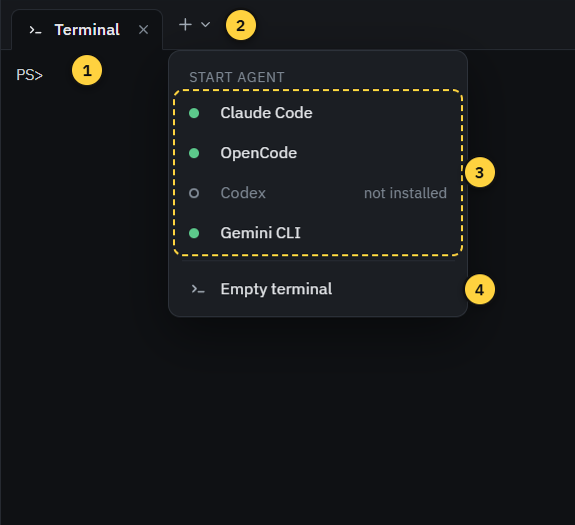
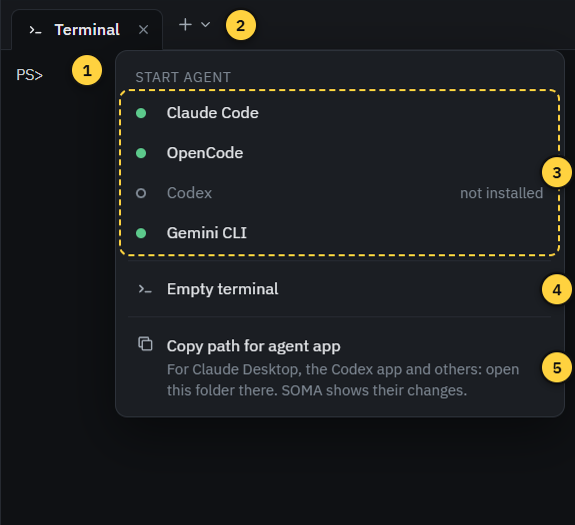
Doku: Ordner-Modus und Agenten-Apps in Anleitung, Skill, Vorlage und Changelog
Abschnitt „Your own folder“ und Punkt „Copy path for agent app“ in
soma-app.md mit neuem Bild, Agenten-Apps im Skill shell-environment,
soma render in der Vorlage ohne „nur in den Terminals der App“.

diff --git a/app/README.md b/app/README.md
@@ -76,7 +76,7 @@ SOMA_TEST_EXE="$LOCALAPPDATA/soma-dev/release/win-unpacked/SOMA.exe" node test/s
 
 | Pfad | Inhalt |
 |---|---|
-| `src/main/` | Hauptprozess: `projects.ts` (offenes Projekt, Speichern, Öffnen, Verlauf, Wiederherstellen), `git.ts` (mitgeliefertes Git über dugite), `zip.ts` (Modelldatei .soma oder ZIP schreiben und sicher entpacken), `workspace.ts` (UUID-Arbeitsordner, Projektzustand doppelt, Projekt-Check nur melden), `build.ts` (Build als Einmal-Prozess mit Entprellung, Warteschlange, Zeitlimit, ein vorgewärmter Python-Prozess für alle Aufträge der App, gilt der letzte Build noch), `previews.ts` (Build als Vorschau eines Commits ablegen, STEP-Dateien des Projekts für den Viewer umwandeln, Cache nach Inhalt), `measure.ts` (langlebiger Python-Messdienst, `soma serve`), `skills.ts` (Bibliothek aus mitgelieferten und eigenen Skills, Stufen der Skills: Kopie nach `.soma/skills/`, bei Bedarf mit Hinweis, zwei Listen in `AGENTS.md`, Sicherung abweichender Kopien, Prüfung eines Skill-Texts), `help.ts` (Text und Bilder der Anleitung, Bilder nach `.soma/help/` im Projekt, E83), `skilllibrary.ts` (eigene Skills in den App-Daten für die Einstellungen: anlegen, speichern, zurücksetzen, löschen, importieren, mit Sicherung, E78), `settings.ts` (Einstellungen der App in `settings.json`, Kaputtes gemeldet und vor dem Ersetzen gesichert, E81), `log.ts` (Protokoll `logs/soma.log` in den App-Daten: `console.*` des Hauptprozesses und Fehler des Renderers, gescheiterte IPC-Anfragen, Builds, gestartete Agenten mit Version, ungefangene Ausnahmen; Rotation bei 2 MB, 3 alte Dateien), `storage.ts` (Größe der App-Daten je Bereich, Vorschau-Cache leeren, E81), `about.ts` (Versionen, Komponenten mit Lizenz, Python-Pakete aus den Metadaten, Text für Fehlermeldungen, E81), `updates.ts` (neueste Version unter GitHub Releases über `net.fetch`, einmal je Sitzung, abschaltbar, E98), `params.ts` (Werte des Nutzers in `parameters.json` lesen, prüfen und schreiben, E74), `dialogs.ts` (native Dialoge, im Test beantwortbar), `watcher.ts`, `terminals.ts` (node-pty, Projektumgebung, `soma` und `git` im PATH, `PIP_PYTHON`), `packages.ts` (Projektumgebung `.soma/env` anlegen lassen, fehlende Pakete aus `requirements.txt` installieren, E67), `files.ts` (Pfadschutz, Dateien nach `inputs/`, Markierungen nach `.soma/feedback/`, Schreiben aus dem Editor mit Konfliktprüfung und Sicherung), `dxf.ts` (DXF für die Ansicht über `soma dxfview`, nur bei geänderter Datei, E80), `agents.ts`, dazu für E58 `bridge.ts` (Verbindung für `soma render`: HTTP auf 127.0.0.1 mit Schlüssel, Adresse und Schlüssel auch in `bridge.json` der App-Daten für Agenten mit fremder Umgebung), `render.ts` (unsichtbares Render-Fenster, Aufträge nacheinander), `animations.ts` (Liste der Animationen und Ergebnisse, Bauen im Hintergrund) |
+| `src/main/` | Hauptprozess: `projects.ts` (offenes Projekt, Speichern, Öffnen, Verlauf, Wiederherstellen), `git.ts` (mitgeliefertes Git über dugite), `zip.ts` (Modelldatei .soma oder ZIP schreiben und sicher entpacken), `workspace.ts` (UUID-Arbeitsordner, Projektzustand doppelt, Projekt-Check nur melden, geöffnete Ordner in `folders.json`), `folders.ts` (Ordner-Modus „Open folder“: was angelegt und geändert wird, Abschnitt in `AGENTS.md`, Verweis in `CLAUDE.md`, mit Sicherung, E103), `build.ts` (Build als Einmal-Prozess mit Entprellung, Warteschlange, Zeitlimit, ein vorgewärmter Python-Prozess für alle Aufträge der App, gilt der letzte Build noch), `previews.ts` (Build als Vorschau eines Commits ablegen, STEP-Dateien des Projekts für den Viewer umwandeln, Cache nach Inhalt), `measure.ts` (langlebiger Python-Messdienst, `soma serve`), `skills.ts` (Bibliothek aus mitgelieferten und eigenen Skills, Stufen der Skills: Kopie nach `.soma/skills/`, bei Bedarf mit Hinweis, zwei Listen in `AGENTS.md`, Sicherung abweichender Kopien, Prüfung eines Skill-Texts), `help.ts` (Text und Bilder der Anleitung, Bilder nach `.soma/help/` im Projekt, E83), `skilllibrary.ts` (eigene Skills in den App-Daten für die Einstellungen: anlegen, speichern, zurücksetzen, löschen, importieren, mit Sicherung, E78), `settings.ts` (Einstellungen der App in `settings.json`, Kaputtes gemeldet und vor dem Ersetzen gesichert, E81), `log.ts` (Protokoll `logs/soma.log` in den App-Daten: `console.*` des Hauptprozesses und Fehler des Renderers, gescheiterte IPC-Anfragen, Builds, gestartete Agenten mit Version, ungefangene Ausnahmen; Rotation bei 2 MB, 3 alte Dateien), `storage.ts` (Größe der App-Daten je Bereich, Vorschau-Cache leeren, E81), `about.ts` (Versionen, Komponenten mit Lizenz, Python-Pakete aus den Metadaten, Text für Fehlermeldungen, E81), `updates.ts` (neueste Version unter GitHub Releases über `net.fetch`, einmal je Sitzung, abschaltbar, E98), `params.ts` (Werte des Nutzers in `parameters.json` lesen, prüfen und schreiben, E74), `dialogs.ts` (native Dialoge, im Test beantwortbar), `watcher.ts`, `terminals.ts` (node-pty, Projektumgebung, `soma` und `git` im PATH, `PIP_PYTHON`), `packages.ts` (Projektumgebung `.soma/env` anlegen lassen, fehlende Pakete aus `requirements.txt` installieren, E67), `files.ts` (Pfadschutz, Dateien nach `inputs/`, Markierungen nach `.soma/feedback/`, Schreiben aus dem Editor mit Konfliktprüfung und Sicherung), `dxf.ts` (DXF für die Ansicht über `soma dxfview`, nur bei geänderter Datei, E80), `agents.ts`, dazu für E58 `bridge.ts` (Verbindung für `soma render`: HTTP auf 127.0.0.1 mit Schlüssel, Adresse und Schlüssel auch in `bridge.json` der App-Daten für Agenten mit fremder Umgebung), `render.ts` (unsichtbares Render-Fenster, Aufträge nacheinander), `animations.ts` (Liste der Animationen und Ergebnisse, Bauen im Hintergrund) |
 | `src/preload/` | Schmale, feste Schnittstelle zum Renderer (kein Node-Zugriff dort), `render-preload.ts` für das Render-Fenster |
 | `src/renderer/` | Oberfläche: `main.ts` (Verdrahtung: Kopfzeile mit Spalten-Schaltern, Seitenleiste und Code-Spalte, Reiter Analysis und Animation mit Punkt für Neues, Werkzeuge neben dem Strukturbaum, Menüs, Auswahl, Export, Übergabe an den Agenten auch per Ziehen ins Terminal, Startseite), `viewer.ts` (three.js, Klick auf Code, Ansichten, Drehpunkt, Mausbelegungen und orthografische Kamera (E81), Schnittebene mit gefüllter Schnittfläche und Kontur, verschobene Bauteile der Explosion mit Wegen, Strahltest der Demontage-Analyse mit BVH aus `three-mesh-bvh`, Vorschaubild, Bild für die Markierung), `viewcube.ts` (Ansichtswürfel in 3D), `sectiontool.ts` (Schnitt: Karte, Ebene, Text für den Agenten), `explodetool.ts` (Explosion: Demontage-Analyse mit Baugruppen und schrägen Richtungen, Elternteile, Lage, Abspielen Schritt für Schritt, Karte, Texte für den Agenten), `busy.ts` (Ladeanzeige über dem Viewer mit Fortschritt und Abbrechen, für die Analyse der Explosion), `skills.ts` (Skills in der Seitenleiste: Zeilen mit Stufen-Schalter, Karte daneben mit Einstellungen), `help.ts` (Hilfe über der App: Abschnitte der Anleitung, E83), `tutorial.ts` (geführte Tour, E94: Karte mit Schritt, Titel und Text, oranger Rahmen um das Element, Abdunklung aus vier Flächen, Klicks gehen durch, ohne Element Karte in der Mitte; die zehn Schritte am Modell „Tutorial“), `settings.ts` (Einstellungen über der App mit Reitern, Reiter „Skills“ mit Liste, Markdown-Editor, Vorschau und Prüfung beim Tippen, E78), `settingspages.ts` (Reiter Viewer, Shortcuts, Storage und About, E81), `params.ts` (Parameter in der Seitenleiste: Felder nach Art, Gruppen, Zurücksetzen auf den Wert aus dem Code, E74), `markup.ts` (Zeichenfläche der Markierung, Formen als bearbeitbare Objekte), `measuretool.ts` (Messen: Ablauf, Karte, Text für den Agenten), `tree.ts` (Strukturbaum oben links im Viewer, E82: ohne Hintergrund, Baumstriche, Gruppen, Auge und Transparenz vor dem Namen, Referenzen als Gruppe am Ende, Suche, F3, Mehrfachauswahl, Ziehen über die Augen), `shortcuts.ts` (Liste aller Tasten für den Reiter Shortcuts der Einstellungen), `code.ts` (Code-Spalte mit Editor: CodeMirror 6, Speichern auf Wunsch, Abgleich mit Änderungen des Agenten, Konflikte, Umschalter für Markdown), `dxfview.ts` (DXF-Ansicht im Code-Panel: Pfade auf einer Canvas, Zoom, Layer, Mark up view, E80), `drawings.ts` (Dokument „Drawings“, E97: alle Blätter aus `.soma/drawings/index.json` als ein PDF in der Code-Spalte, Kopf je Blatt, Treffer auf Ansichten und Maße über die Blatt-mm des Index, Karte zur Auswahl), `drawlink.ts` (Zeichnung und 3D: Kamera in Blickrichtung, Schnittebene ins Schnittwerkzeug, Maß als Punkte, Strecke und Maßzahl), `markdown.ts` (Markdown als Dokument: Tokens von `marked` direkt als DOM, ohne `innerHTML`), `filetree.ts` (Dateibaum in der Seitenleiste, offene Datei hervorgehoben), `versions.ts` (Verlaufsleiste), `fileview.ts` (STEP-Datei aus dem Projekt im Viewer: Banner, Neuladen bei Änderung, schließt sich mit der Versionsvorschau aus), `terminals.ts` (xterm.js, Tabs, Einklappen, Einfügen), `ui.ts` (Menüs, Meldungen, Helfer), `icons.ts` (Symbole), `style.css` (Farben mit fester Bedeutung, siehe Kopf der Datei) |
 | `src/renderer/` (E58) | `animdata.ts` (Animation aus der glTF-Datei auswerten), `animtool.ts` (Abspielleiste unten im Bild), `animpanel.ts` (Reiter Animation: Liste mit Videos, Schritte, E82), `overlay.ts` (Untertitel, Beschriftungen, Legende auf einer 2D-Fläche, im Viewer wie im Video), `resultview.ts` und `resulttool.ts` (Ergebnisse farbig, Legende, Leiste und Beschriftungen im Bild), `analysispanel.ts` (Reiter Analysis: Liste und Bericht, E82), `videoview.ts` (Video-Player mit Standbild markieren), `render.html` und `render.ts` (unsichtbares Render-Fenster: Bild, Übersicht, MP4 mit WebCodecs und mediabunny) |
@@ -86,7 +86,7 @@ SOMA_TEST_EXE="$LOCALAPPDATA/soma-dev/release/win-unpacked/SOMA.exe" node test/s
 | `resources/help/` | Bilder der Anleitung (E83) mit nummerierten Markierungen, erzeugt mit `npm run help:shots` (`test/helpshots.mjs`, Ausschnitte und Nummern in `test/helpshots-spec.mjs`). Der Text ist der Skill `resources/skills/soma-app.md`, die Liste unter jedem Bild nennt dieselben Bezeichnungen wie die Markierungen (`npm run test:unit` prüft das) |
 | `resources/icon.*` | App-Icon (E44) für Fenster und Taskleiste: `icon.svg` als Vorlage, `icon.ico` (16 bis 256 px) und `icon.png`. Neu erzeugen mit `python scripts/make-icon.py` (braucht Edge und Pillow, kleine Größen bekommen einen dickeren Strich) |
 | `../python/soma/` | Hilfsbibliothek und Kommandozeile (`soma build`, `soma export`, `soma glb` für Vorschauen, `soma serve` Messdienst, `soma warm` vorgewärmter Prozess der App, `soma env` und `env.py` Projektumgebung und `requirements.txt` (E67), `measure.py` exakte Werte mit OCC, `fasteners.py` Normteile mit Tabellen aus bd_warehouse in `data/fasteners/`, `cqcompat.py` Kompatibilitätsmodus für CadQuery-Skripte ohne `add_part` (E100), `cqexport.py` mit `soma cadquery export|import` und `cqruntime.py` als Block exportierter Skripte (Apache 2.0, E101), `anim.py` und `animrun.py` Animationen mit `soma anim`, `analysis.py` Auswertungen mit `soma analyze`, `fem.py` Festigkeit mit `soma analyze fem` (gmsh, Kontakt, Schrauben mit Vorspannung, eigener Solver mit pyamg als Rückfall), `ccx.py` CalculiX als Rechenwerk (E84), `render.py` Auftrag an die App für `soma render`, `drawing.py` und `drawrun.py` technische Zeichnungen mit `soma drawing` (E76: HLR aus OCP, DXF mit ezdxf, PDF und PNG über matplotlib, Prüfung), `dxfview.py` DXF für die Ansicht der App mit `soma dxfview` (E80, Zeichenmodul von ezdxf), `gltf.py` GLB-Schreiber, `progress.py` Fortschritt langer Befehle) |
-| `test/` | `smoke.mjs`, `versions.mjs`, `editor.mjs`, `measure.mjs`, `stepview.mjs`, `cadquery.mjs`, `groups.mjs`, `section.mjs`, `explode.mjs`, `skills.mjs`, `params.mjs`, `tutorial.mjs`, `updates.mjs`, `fasteners.mjs`, `drawing.mjs`, `drawview.mjs`, `dxf.mjs`, `animation.mjs` (Ende-zu-Ende), `unit.mjs` (ohne Electron), `buildlock.mjs` (Sperre von `soma build`, nur Python), `harness.mjs` (App starten und steuern), `cdp.mjs` (kleiner DevTools-Client, puppeteer scheitert an Electron 44) |
+| `test/` | `smoke.mjs`, `versions.mjs`, `editor.mjs`, `measure.mjs`, `stepview.mjs`, `cadquery.mjs`, `folder.mjs` (Ordner-Modus), `groups.mjs`, `section.mjs`, `explode.mjs`, `skills.mjs`, `params.mjs`, `tutorial.mjs`, `updates.mjs`, `fasteners.mjs`, `drawing.mjs`, `drawview.mjs`, `dxf.mjs`, `animation.mjs` (Ende-zu-Ende), `unit.mjs` (ohne Electron), `buildlock.mjs` (Sperre von `soma build`, nur Python), `harness.mjs` (App starten und steuern), `cdp.mjs` (kleiner DevTools-Client, puppeteer scheitert an Electron 44) |
 
 ## Noch nicht enthalten
 

diff --git a/app/resources/skills/soma-app.md b/app/resources/skills/soma-app.md
@@ -45,7 +45,7 @@ The logo at the top left opens the start page.
 
 ![The start page](../help/start.png)
 
-1. **New model**: starts from a small example (a box with a lid) and opens a terminal in the model folder (Ctrl N). The arrow next to it also offers **From CadQuery script**, which starts from an existing CadQuery script instead (see "CadQuery scripts").
+1. **New model**: starts from a small example (a box with a lid) and opens a terminal in the model folder (Ctrl N). The arrow next to it also offers **From CadQuery script**, which starts from an existing CadQuery script instead (see "CadQuery scripts"), and **Open folder**, which uses SOMA in a folder of yours (see "Your own folder").
 2. **Open**: opens a .soma or ZIP file (Ctrl O).
 3. **Tutorial**: a short guided tour of the app with an example model. No agent needed. The cross hides the card.
 4. **Recent**: models you worked on, the newest first. The field above filters them by name. "Open" marks the model that is open right now, "never saved" one that was never saved as a .soma file. The bin on a card removes the model from this computer, a saved .soma file stays.
@@ -74,6 +74,8 @@ disappears like any new model you did not change.
 2. **New tab**: opens the menu below.
 3. **Start agent**: starts one of the agents found on this computer.
 4. **Empty terminal**: a plain command line, for example for `soma build`.
+5. **Copy path for agent app**: copies the model folder. Open it in an agent app such as Claude Desktop or the Codex
+   app, and SOMA shows its changes like those of an agent in a tab.
 
 Type your wishes into the agent and press Enter. Everything with **Send to agent** (a part, a measurement, an error,
 a drawing) puts a short note into the agent's input. Add your own words, then press Enter. You can also drag a file
@@ -200,6 +202,25 @@ SOMA works with plain CadQuery scripts in both directions.
   and the values of the Parameters panel come back. Leave the block unchanged, otherwise SOMA keeps it as it is.
 
 The block and the standard parts are under the Apache License 2.0, so the exported script is yours like any model.
+
+## Your own folder
+
+**Open folder** (model menu, or the arrow next to New model) uses SOMA in a folder of yours, for example a Git repository.
+The folder itself is the model: there is no .soma file to save, and your files stay where they are.
+
+- **Entry point:** `model.py` if there is one. Otherwise SOMA asks which script builds the model (plain CadQuery with
+  `show_object` or `result` works too), or creates `model.py` from the template.
+- **Before anything changes**, SOMA lists what it creates and what it changes, with Cancel. It creates `.soma/` (app
+  data, cache and skills, with its own `.gitignore` for the intermediate results) and `output/`. It adds a marked section
+  for SOMA to `AGENTS.md` and a line pointing to it to `CLAUDE.md`, or creates the two files. Changed files are backed up
+  first. Packages the model needs go into `.soma/requirements.txt`, a `requirements.txt` of yours stays as it is.
+- **Git:** SOMA creates no repository and commits nothing here. If the folder is a repository, the history shows its
+  commits. A version shows in the viewer if its commit contains `output/model.step`. **Restore** is not available:
+  commit yourself or ask the agent.
+- **Saving:** Ctrl S writes the editor's changes into the folder. **Export › Everything as ZIP** makes a copy as a file,
+  without the Git history.
+- **Start page:** the card says "Folder". The bin only removes it from the list, the folder stays. If you move or rename
+  the folder, the card says "folder missing": open it again with **Open folder** at its new place.
 
 ## Settings
 

diff --git a/CLAUDE.md b/CLAUDE.md
@@ -19,7 +19,7 @@ A desktop app (Electron, TypeScript) in which a user designs 3D models in CadQue
 Details in `app/README.md`.
 
 **`app/`** Electron app
-- `src/main/` main process. Projects: `projects.ts` (save, open, history, export), `git.ts`, `zip.ts`, `workspace.ts`, `files.ts`, `watcher.ts`. Building and display: `build.ts` (prewarmed Python process), `previews.ts` (previews of versions and STEP files from the project), `measure.ts`, `dxf.ts` (E80), `drawings.ts` (document "Drawings", E97), `render.ts` + `bridge.ts` (`soma render`), `animations.ts`. Agent and skills: `terminals.ts`, `agents.ts`, `skills.ts`, `skilllibrary.ts` (own skills, E78). Environment: `packages.ts` (project environment, E67), `params.ts` (parameter panel, E74). App: `log.ts` (log file `logs/soma.log` in the app data, also catches `console.*`), `settings.ts`, `storage.ts`, `about.ts` (E81), `updates.ts` (new version on GitHub, E98), `help.ts` (E83), `dialogs.ts`.
+- `src/main/` main process. Projects: `projects.ts` (save, open, history, export), `git.ts`, `zip.ts`, `workspace.ts`, `folders.ts` ("Open folder", a folder of the user as the model, E103), `files.ts`, `watcher.ts`. Building and display: `build.ts` (prewarmed Python process), `previews.ts` (previews of versions and STEP files from the project), `measure.ts`, `dxf.ts` (E80), `drawings.ts` (document "Drawings", E97), `render.ts` + `bridge.ts` (`soma render`), `animations.ts`. Agent and skills: `terminals.ts`, `agents.ts`, `skills.ts`, `skilllibrary.ts` (own skills, E78). Environment: `packages.ts` (project environment, E67), `params.ts` (parameter panel, E74). App: `log.ts` (log file `logs/soma.log` in the app data, also catches `console.*`), `settings.ts`, `storage.ts`, `about.ts` (E81), `updates.ts` (new version on GitHub, E98), `help.ts` (E83), `dialogs.ts`.
 - `src/preload/` the only bridge to the renderer.
 - `src/renderer/` interface, wired up in `main.ts`. Viewer: `viewer.ts`, `viewcube.ts`, `tree.ts` (structure tree, E82), tools `sectiontool.ts`, `explodetool.ts`, `measuretool.ts`, `markup.ts`. Panels: `code.ts`, `pdfview.ts`, `dxfview.ts`, `drawings.ts` + `drawlink.ts` (document "Drawings" and its link to 3D, E97), `markdown.ts`, `filetree.ts`, `versions.ts`, `fileview.ts` (STEP file from the project in the viewer), `terminals.ts`, `params.ts`, `skills.ts`, `help.ts`, `settings.ts` + `settingspages.ts`, `tutorial.ts` (guided tour, E94). Animation and analysis: `animtool.ts`, `animpanel.ts`, `animdata.ts`, `overlay.ts`, `resulttool.ts`, `resultview.ts`, `analysispanel.ts`, `videoview.ts`. Render window: `render.ts`/`render.html`. General: `ui.ts`, `icons.ts`, `busy.ts`, `shortcuts.ts`, `style.css`.
 - `src/shared/` `types.ts` (IPC contract), `settings.ts` (defaults, validation, mouse bindings, E81), `editable.ts`, `help.ts`, `skillname.ts`, `version.ts`.

diff --git a/app/resources/template/AGENTS.md b/app/resources/template/AGENTS.md
@@ -41,7 +41,7 @@ Run them in this terminal. They work without the app.
 | `soma build` | Runs `model.py`, writes `output/model.step` and the viewer cache. **Run it after every change and read the result.** On errors it prints the file, line and message |
 | `soma export <Part> --format stl` | Exports one part (formats: step, stl, 3mf, amf, brep, iges, obj, vrml, glb, gltf, dxf, svg) |
 | `soma export --all --format step` | Exports all parts except references |
-| `soma render` | Saves a picture of the current model to `renders/view-iso.png` (`--view top` or a direction `--view=1,-2,1`, `--hide`/`--only` parts or groups, `--fit` parts, `--zoom 2`, `--size 1280x800`, `--out`). **Open the picture and look at it** to check your work, also inside: hide what is in the way. Works only in the terminals of the app, it renders with the app's viewer |
+| `soma render` | Saves a picture of the current model to `renders/view-iso.png` (`--view top` or a direction `--view=1,-2,1`, `--hide`/`--only` parts or groups, `--fit` parts, `--zoom 2`, `--size 1280x800`, `--out`). **Open the picture and look at it** to check your work, also inside: hide what is in the way. Needs the app with this model open, it renders with the app's viewer |
 | `soma analyze overhang` (or `thickness`, `clearance`) | Value at every spot of the surface with a summary per part. Details in the skill for analysis |
 | `soma analyze fem analyses/x.py` | Stresses, safety and deflection under a load case described in `analyses/x.py`. Details in the skill for FEM |
 | `soma anim build`, `soma anim info "Name"` | Animations from `animations/`. Details in the skill for animation |

diff --git a/CHANGELOG.md b/CHANGELOG.md
@@ -8,6 +8,8 @@ the version is bumped.
 
 ### Added
 
+- "Open folder" uses SOMA in a folder of yours, for example a Git repository: viewer, skills, agent instructions and `soma`, without a .soma file. Before anything changes, SOMA lists the files it creates and changes, with Cancel. It adds a section to `AGENTS.md` and a line to `CLAUDE.md` (backed up first), leaves your Git history and `requirements.txt` alone, and never moves or deletes the folder.
+- "Copy path for agent app" in the menu for new tabs copies the model folder, so an agent app such as Claude Desktop or the Codex app can work on the model. SOMA shows its changes, and `soma render` works from there too.
 - `soma anim build`, `info` and `check` warn about motion that plays back differently than written: jumps within one frame, turns so fast that they wobble between frames, and parts that are still hidden at the end.
 - `add_part(..., alpha=)` sets the opacity of a part. A reference with `alpha=1` is opaque, for scenery in animations such as a floor or a logo, and still stays out of `soma export --all`.
 

diff --git a/app/resources/skills/shell-environment.md b/app/resources/skills/shell-environment.md
@@ -13,7 +13,8 @@ topics: Why it happens; Running soma; Installing packages; Reading files in Wind
 ## Why it happens
 
 The app's terminals put `soma`, `pip` and the model's own Python environment on the PATH. Some agents run their
-commands somewhere else, for example in a background service that kept the environment of another program. Then
+commands somewhere else, for example in a background service that kept the environment of another program,
+or in an agent app such as Claude Desktop or the Codex app that has this folder open. Then
 `soma` is missing or another `pip` answers. The working folder is still the model's folder, so call everything
 through the model's environment directly.
 
